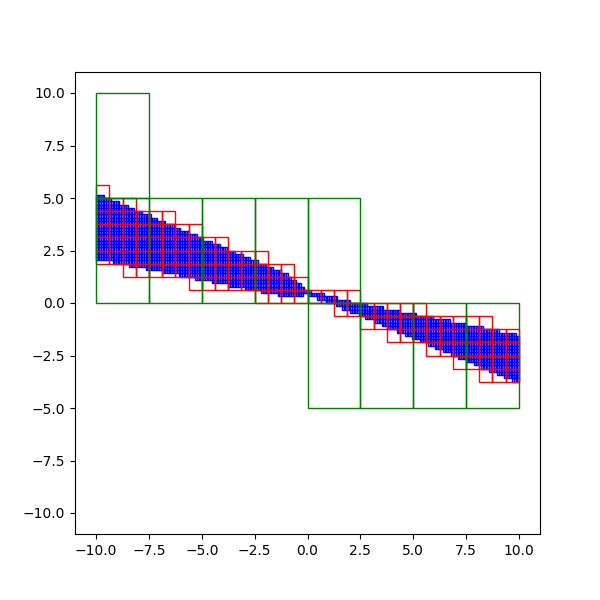
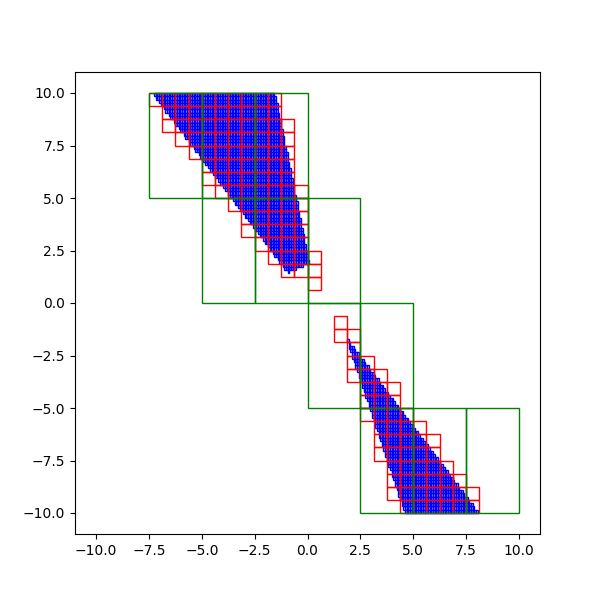
modified third equation for the so that the set of solutions consists of two subsets

Changed region(s): [[0.15, 0.15, 0.87, 0.87]]

diff --git a/main.py b/main.py
@@ -17,5 +17,4 @@ def solveIPLS(matrix, vector, output_file="boxes.png"):
 if __name__ == "__main__":
     solveIPLS(IntervalMatrix([[Interval(1, 2), Interval(4, 7)], [Interval(-1, 1), Interval(1, 4)]]), IntervalVector([Interval(4, 7), Interval(1, 3)]), "result1.png")
     solveIPLS(IntervalMatrix([[Interval(4, 5), Interval(1, 3)], [Interval(-5, -3), Interval(2, 3)]]), IntervalVector([Interval(4, 5), Interval(1, 6)]), "result2.png")
-    solveIPLS(IntervalMatrix([[Interval(1, 3), Interval(4, 5)], [Interval(-1, 3), Interval(7, 8)]]), IntervalVector([Interval(1, 2), Interval(4, 6)]), "result3.png")
-
+    solveIPLS(IntervalMatrix([[Interval(4, 5), Interval(1, 3)], [Interval(-1, 3), Interval(1, 2)]]), IntervalVector([Interval(1, 2), Interval(4, 6)]), "result3.png")
